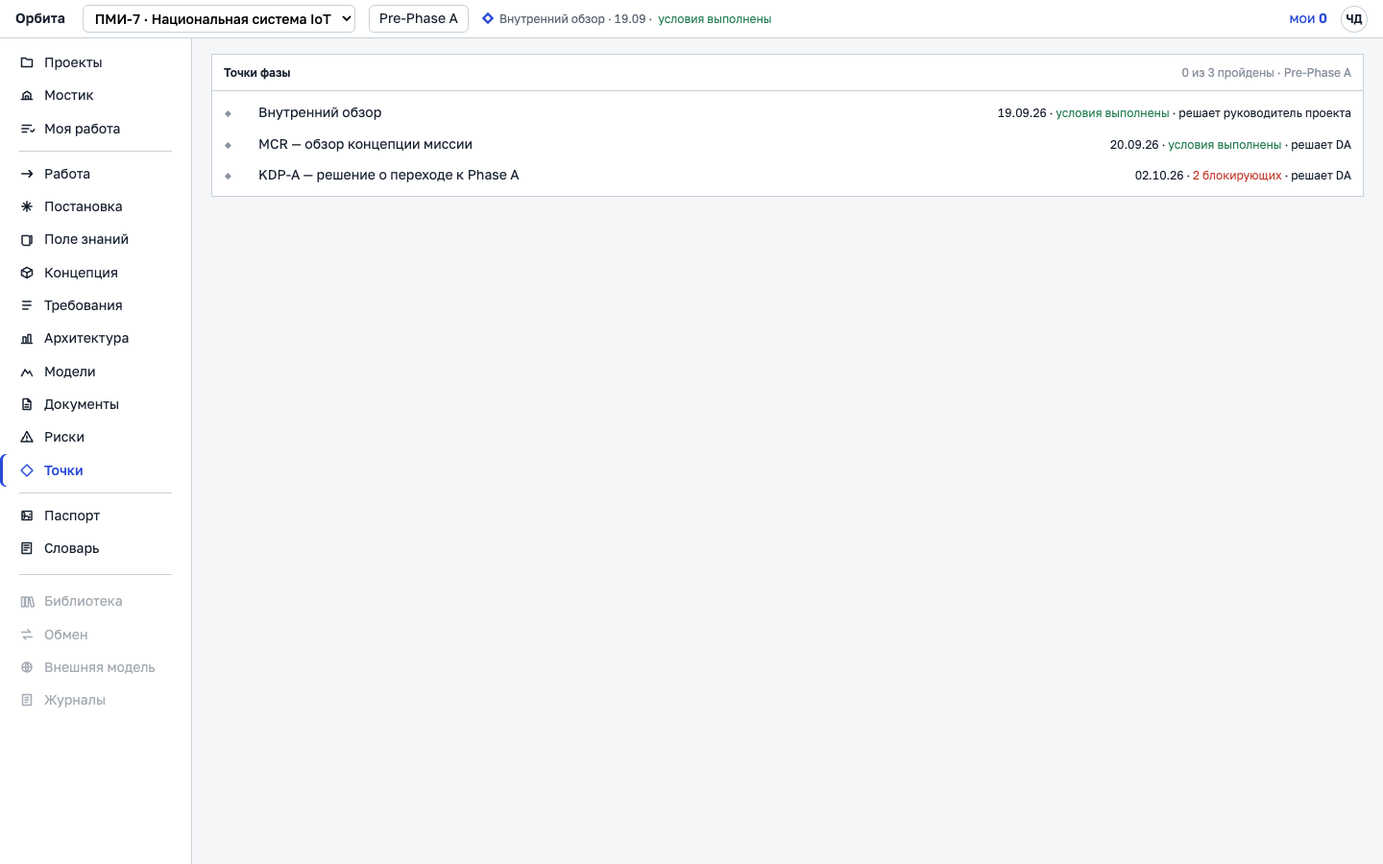
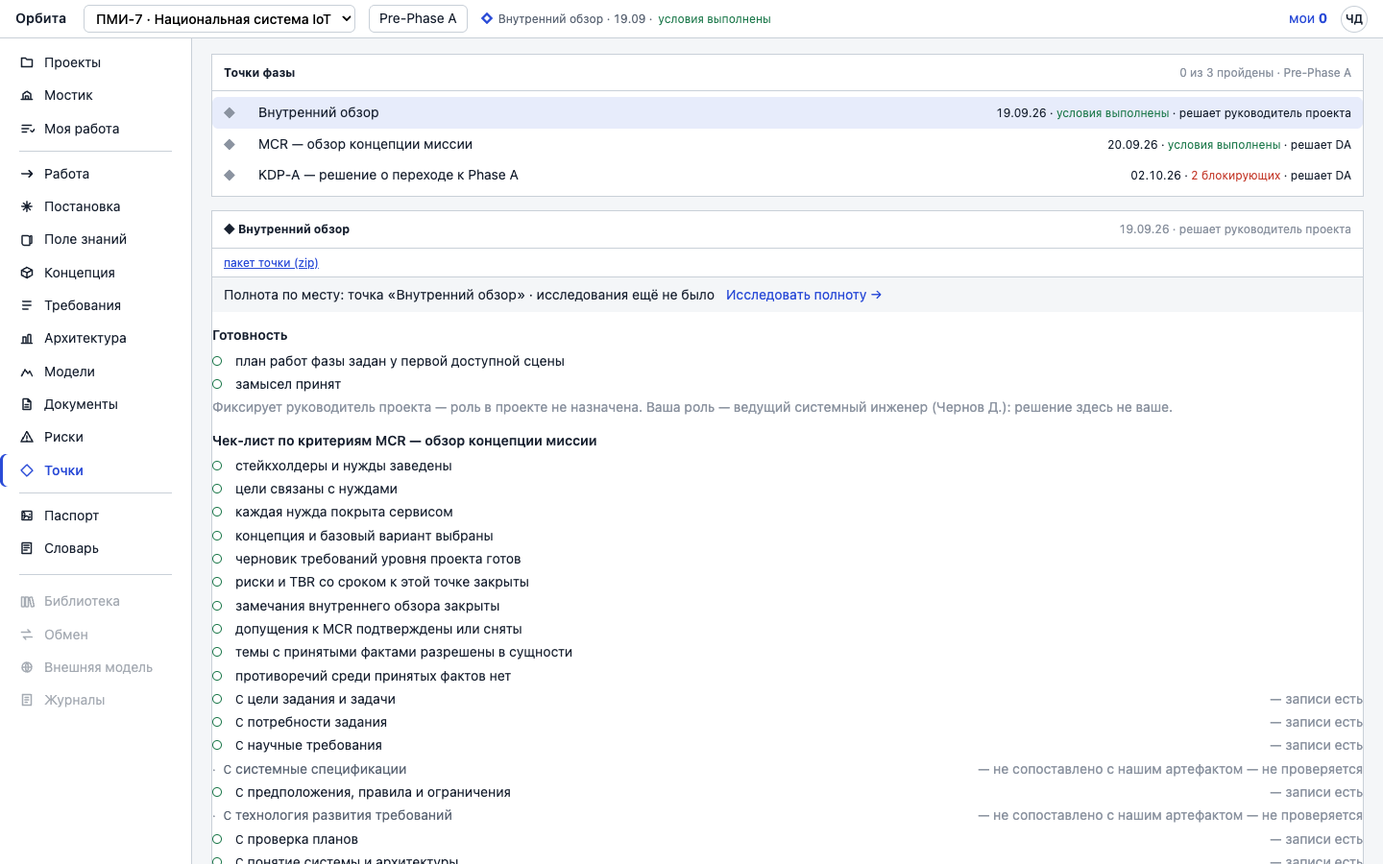
Шип 5 §9: тест действия и отчёт владельцу; точка открыта сразу
Отчёт docs/tz/v2/поставка-09-26/ОТЧЁТ-ШИП-5.md: где смотреть (лист «до |
после», полнота папок), параграфы и коммиты, таблица теста действия (экран →
вопрос → главное действие → клики от входа по ролям, больше двух —
объяснено), убранное поимённо, тесты, серверные DTO, вопросы владельцу.

По тесту действия: карточка ближайшей непройденной точки открыта сразу,
один раз на вход — решение вторым кликом от входа (actionTest.test.ts); в
панели исследования точки ключ internal_review — словом. Снимки «после» —
«Точки» под тремя ролями. NEXT.md: шип 5 сделан, выкат — по слову владельца.

diff --git a/web/src/v2/actionTest.test.ts b/web/src/v2/actionTest.test.ts
@@ -1,0 +1,18 @@
+// Шип 5 §9 — тест действия: от входа (Мостик у ведущих, Моя работа у
+// инженера) до главного действия экрана — не больше двух кликов; больше —
+// объяснено в отчёте шипа или убрано.
+//
+// Точки: «Зафиксировать» стояло за третьим кликом — рейка, строка точки,
+// кнопка. Карточка ближайшей непройденной точки (той, что в шапке) теперь
+// открыта сразу, один раз на вход: решение — вторым кликом.
+import { describe, expect, it } from 'vitest'
+import точки from './points.tsx?raw'
+
+describe('тест действия: точка решается вторым кликом от входа', () => {
+  it('карточка ближайшей непройденной точки открыта сразу, один раз на вход', () => {
+    expect(точки).toContain('setОткрыта((вид.items.find((т) => !т.passed) ?? null)?.key ?? null)')
+    expect(точки).toContain('if (!вид || раскрытаСама) return')
+    // Дальше открывает и сворачивает человек: строка точки по-прежнему переключает карточку.
+    expect(точки).toContain('onClick={() => setОткрыта(т.key === открыта ? null : т.key)}')
+  })
+})

diff --git a/web/src/v2/research.tsx b/web/src/v2/research.tsx
@@ -109,10 +109,12 @@ export function запомнитьРоль(роль: string): void {
  * @param onChanged принятое из результата меняет поле — вызывающий экран
  *   перечитывает свои списки
  */
-export function ResearchPanel({ project, trigger, onChanged }: {
+export function ResearchPanel({ project, trigger, onChanged, место }: {
   project: string
   trigger: ResearchPlace
   onChanged?: () => void
+  /** Место словами («точка «Внутренний обзор»»): ключ точки на экран не выходит (шип 5 §9). */
+  место?: string
 }) {
   const [открыта, setОткрыта] = useState(false)
   const [задачи, setЗадачи] = useState<ResearchTask[] | null>(null)
@@ -259,7 +261,7 @@ export function ResearchPanel({ project, trigger, onChanged }: {
   const итог = задача?.accepted
   const состояние = задача
     ? `${задача.place} · цикл ${задача.iteration} · ${СОСТОЯНИЕ[задача.status] ?? задача.status}`
-    : `${сцена ? `сцена ${сцена}` : `точка ${точка}`} · исследования ещё не было`
+    : `${место ?? (сцена ? `сцена ${сцена}` : `точка ${точка}`)} · исследования ещё не было`
 
   return (
     <>

diff --git a/docs/tz/v2/поставка-09-26/ОТЧЁТ-ШИП-5.md b/docs/tz/v2/поставка-09-26/ОТЧЁТ-ШИП-5.md
@@ -1,0 +1,134 @@
+# Шип 5 · дизайн-обход целиком — отчёт (26.09)
+
+Задание — `ЗАДАНИЕ-ШИП-5-ДИЗАЙН-ОБХОД.md`, эталон —
+`docs/tz/v2/эталоны/reference-tabs-bands-card.html`. Все параграфы §0–§9
+сделаны, каждый — своим коммитом с тестами и зелёным CI. **Выката не было:**
+стенд владельца не тронут, выкат — по слову владельца после ПМИ-8. Истина не
+тронута. Сервер — только чтение и DTO, новых маршрутов записи нет.
+
+## Где смотреть
+
+* **Лист парами «до | после»** — [`снимки-дизайн/2026-09-26-после/ЛИСТ.md`](../снимки-дизайн/2026-09-26-после/ЛИСТ.md)
+  (читается прямо на GitHub; рядом `лист.html` — то же сеткой миниатюр).
+  Каждый раздел рейки × три роли (руководитель · ведущий СИ · инженер) ×
+  окна 1440 и 1280. Вкладки, раскрытые карточки и полосы идут сразу за своим
+  разделом: `раздел~вкладка`, `раздел~карточка`, `раздел~открыто`.
+* **Полнота папок** проверена: `python3 tools/snap_screens.py check --dir …` —
+  в «до» и «после» все 15 разделов × 3 роли × 2 окна.
+* **Живое состояние и вопросы** — `docs/NEXT.md`, раздел «Шип 5», по
+  параграфам.
+
+## Параграфы и коммиты
+
+| § | Что | Коммит |
+|---|---|---|
+| §0 | снимки «до», инструмент снимков, лист-контакт | `d1e358f` |
+| §1 | вкладки, полоса группы, карточка объекта, массовый приём, пиктограммы, ярусы рейки | `c55936b` |
+| §2 | Постановка — семь вкладок по понятиям, реестры общие со сценами 3–6 | `2335ee9` |
+| §3.2 | факты поля знаний полосами по предмету | `52f3079` |
+| §3 | поле знаний — Документы · Факты · Предложения и эксперт-вкладки | `8167b31` |
+| §4 | требования — полосы групп, массовый приём, карточка | `393ceb0` |
+| §5 | документы — «Комплект» и вкладка на документ, разделы слева | `49f88df` |
+| §6 | работа — шапка сцены одной строкой, строка выходов маркерами | `b36dd40` |
+| §7 | словарь, точки, риски, концепция, паспорт — тем же языком | `5f202b9` |
+| §8 | сторожа CI — строка группы, храповик длины, подсказка ≤ 160, полнота снимков | `34cc204` |
+| §9 | тест действия, отчёт; точка открыта сразу | этот коммит |
+
+## Тест действия
+
+Вход: руководитель и ведущий СИ — **Мостик**, инженер — **Моя работа**.
+Клики считаются от входа до главного действия включительно; клик по рейке —
+тоже клик. Подтверждение словами в окне (решение, причина) — часть действия.
+
+| Экран | На какой вопрос отвечает | Главное действие | РП · СИ | Инженер | Больше двух — почему |
+|---|---|---|---|---|---|
+| Мостик | что решить и что держит точку | «Разобрать» в строке «Решить» | 1 · 1 | 2 | — |
+| Моя работа | что мне сделать сейчас | открыть поручение — мероприятие одним разделом | 2 · 2 | 1 | — |
+| Проекты | где мои проекты | открыть проект | 2 · 2 | 2 | — |
+| Работа | где мы в фазе и что держит сцену | «к месту» у «не даёт завершить» | 2 · 2 | 2 | — |
+| Постановка | чего не хватает постановке — маркеры вкладок | карточка строки, правка на месте | 2 · 2 | 2 | массовый приём — набор и действие: 3; вкладка помнится |
+| Поле знаний | что прочитано и что предложено | «прочитать в постановку» у документа | 2 · 2 | 2 | «принять все, кроме требующих внимания» — 3: вкладка «Предложения»; «прочитать» сам ведёт в неё с отбором по прогону |
+| Концепция | из чего система и какой вариант базовый | карточка узла с анкетой | 2 · 2 | 2 | «Назвать базовым» — 3: вкладка «Базовая» с маркером долга, помнится |
+| Требования | какие требования не готовы | карточка требования | 2 · 2 | 2 | «базировать выбранные» — набор и действие: 3 |
+| Архитектура | какие слои узла пусты | слои первого узла видны сразу; другой узел — кликом | 1–2 · 1–2 | 1–2 | — |
+| Модели | какие модели считают и у каких изменился вход | экран читается с рейки; пустой проект — «Взять набор с полки» | 1–2 · 1–2 | 1–2 | — |
+| Документы | какой документ не полон к ступени | собрать PDF или базировать в «Комплекте» | 2 · 2 | 2 | написать раздел связно — 3: документ открывается на первом неполном разделе; инженер приходит в раздел из мероприятия одним кликом |
+| Риски | какие риски держат точку и чьи | «закрыть решением» в строке | 2 · 2 | 2 | — |
+| Точки | что держит точку и можно ли решать | «Зафиксировать» · «Решение: переход» | 2 · 2 | — | было 3; теперь карточка ближайшей точки открыта сразу. Инженеру сказано, кто фиксирует |
+| Паспорт | кто ведёт проект, класс, стандарт, даты | правка поля на месте | 2 · 2 | 2 | — |
+| Словарь | что принято и что ждёт решения | принять кандидатов группой | 3 · 3 | 3 | вкладка «Кандидаты» с маркером долга, помнится; группа принимается одной пиктограммой в полосе |
+
+## Что убрано с экранов
+
+* **§2 Постановка.** Четыре кнопки-ссылки в ряд, две из которых были
+  отбором («Без нужд») и состоянием («Покрытие k из n»), — стали вкладками,
+  чипом и числом. Экран `coverage.tsx` снят. Свои таблицы сторон, нужд, целей,
+  сервисов и ограничений в сценах 3–6 — те же реестры. Карандаш и строка
+  правки в таблицах сцен — правит карточка. Таблица «класс у покрытых нужд»
+  сцены 6 — тот же реестр на чипе TBR.
+* **§3.2 Факты.** Таблица с группами-строками `colSpan`, ряд «показать:», ряд
+  «темы:», большая кнопка «Принять все факты», итог пакета отдельной
+  карточкой, строка повода и окно допущения в ячейке, кнопка «Руками» в
+  шапке.
+* **§3 Поле знаний.** Простыня экрана — 2675 строк в одном файле — стала
+  вкладками; исследования внизу фактов — эксперт-вкладкой; раздача нужд над
+  предложениями — свёрнутой полосой; `intent` кодом на экране — словом.
+* **§4 Требования.** Строки-группы `colSpan` в теле таблицы — полосами.
+* **§5 Документы.** Простыня документов — «Комплектом» и вкладками; проверка
+  против поля — только в эксперт-режиме.
+* **§6 Работа.** Своя таблица критериев оценки миссии сцены 4 — общий
+  реестр; шапка сцены в несколько строк — одна строка.
+* **§7.** Ряд селектов в строке реестра рисков — правка в карточке и массово;
+  флажок «по владельцу» и отбор кнопками — полосы и чипы; «Проставить всем
+  без точки» — набором и массовым действием; форма «Завести риск» — за кнопкой
+  (открыта сама, пока реестр пуст). Колонка «Ступень · смотреть» и панель
+  ступени под деревом состава. Вторая строка вкладок «Концепция · Модели» у
+  A6. Общая кнопка «Сохранить паспорт». Строка «термин ищется по…» над
+  вкладками словаря. Галочки ✓/☐ в точках — маркерами.
+* **§8.** Три подсказки-простыни: ранг источника, выгрузка картины, «мимо
+  пакета».
+* **§9.** Лишний клик до решения точки; ключ точки `internal_review` в
+  панели исследования — словом.
+
+## Тесты
+
+* **Клиент:** `tabs`, `band`, `objectCard`, `mass` (§1) · `formulationTabs`
+  (§2) · `factsBands` (§3.2) · `knowledgeTabs` (§3) · `requirementsRegistry`
+  (§4) · `documentsTabs` (§5) · `section7` (§7: строки готовности, замечания
+  полосами, риски полосами и чипами, карточка риска, плотность 1 · 2 · 3,
+  вкладки концепции, карточка узла с анкетой, паспорт карточкой) ·
+  `actionTest` (§9). Сторож «один label — один контрол» — статический
+  `oneControlPerLabel.test.ts` на все новые поверхности и по разметке
+  (`test-support/oneControlPerLabel.ts`) на карточки риска, узла, паспорта.
+  Тексты разложенных экранов — `test-support/requirementsSource`,
+  `documentsSource`, `proposalsSource`.
+* **Сервер (только чтение):** `ObjectCardDtoTest`, `DossierRoutesTest`,
+  `SceneSevenEightTest`, `DocumentsTest`, `DocumentReviewJobsTest`.
+* **Сторожа CI:** `validate_design_guards.py` — (a) ряд кнопок-ссылок как
+  меню, (b) строка группы с `colSpan`, (c) пиктограмма без слова, (d)
+  храповик длины экрана, (e) подсказка ≤ 160; у каждого — самопроверка на
+  подделке. (g) полнота снимков — `snap_screens.py check`, при сборке отчёта.
+
+## Сервер — только чтение и DTO
+
+Виджеты полей и виды ссылок вида (`widgets`, `ref_kinds`); у строки
+перечня — версия, автор, время, канал, документ и якорь; чтение истории
+записи `GET /v2/entities/{код}/history`; цитата блока у факта; `lint_acknowledged`
+у требования; автор и время связного текста; выпуски документа.
+
+## Вопросы владельцу — у каждого умолчание, подробно в NEXT.md
+
+* §1 — порядок рейки и пары разделителей не сходятся; умолчание — порядок
+  прежний, три яруса.
+* §2 — дерево «цель → задачи» (связи в истине нет); «снять с обоснованием»
+  (маршрута нет); «нужда из интереса» ведёт на сцену 3.
+* §3.2 — «принять решённые» прочитано как «принять бесспорные»; «слить с…» у
+  факта (маршрута нет).
+* §4 — блок «Предложения требований» остаётся свёрнутой полосой над реестром.
+* §5 — выпуски всегда 0 (печать выпуск не пишет); секунды связного текста не
+  хранятся.
+* §7 — подсказки полей истины с кодом внутри; слова перечней, которых истина
+  не называет; правка риска перенесена из строки в карточку; ответ «да»
+  экспертизы (поле истины есть, маршрута записи нет).
+* **Дефект сервера, найденный по ходу:** привязка сторон пишет кандидату
+  словаря источник «разбор документа проекта», хотя он пришёл от стороны.
